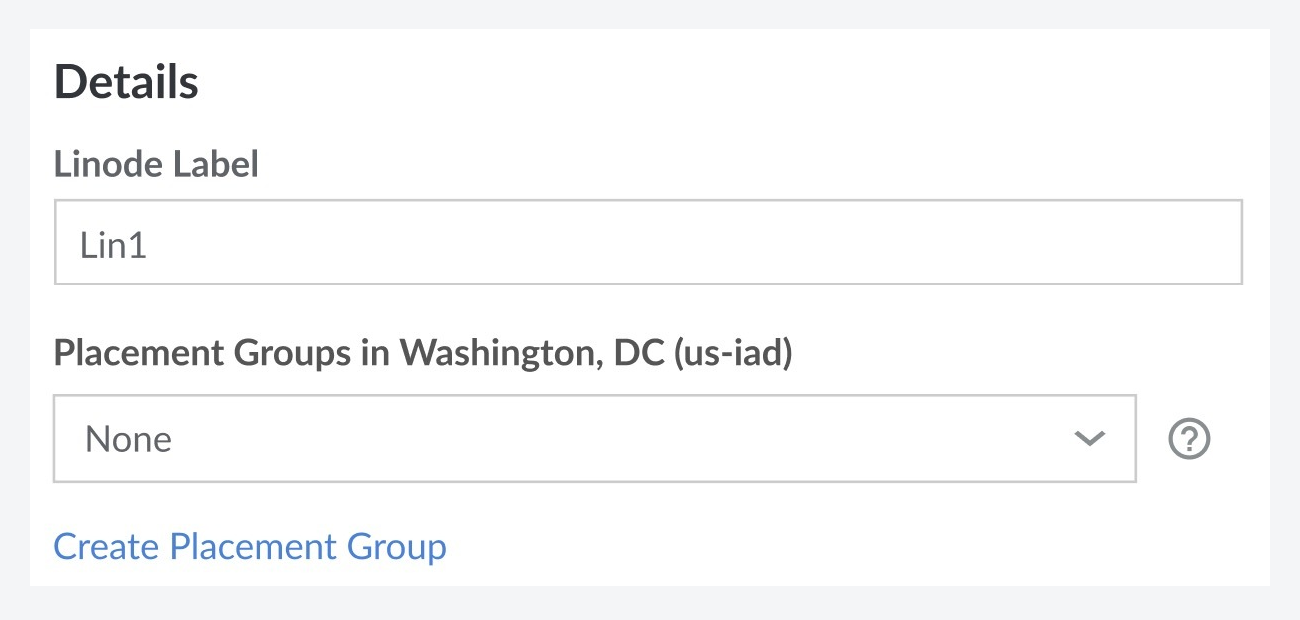
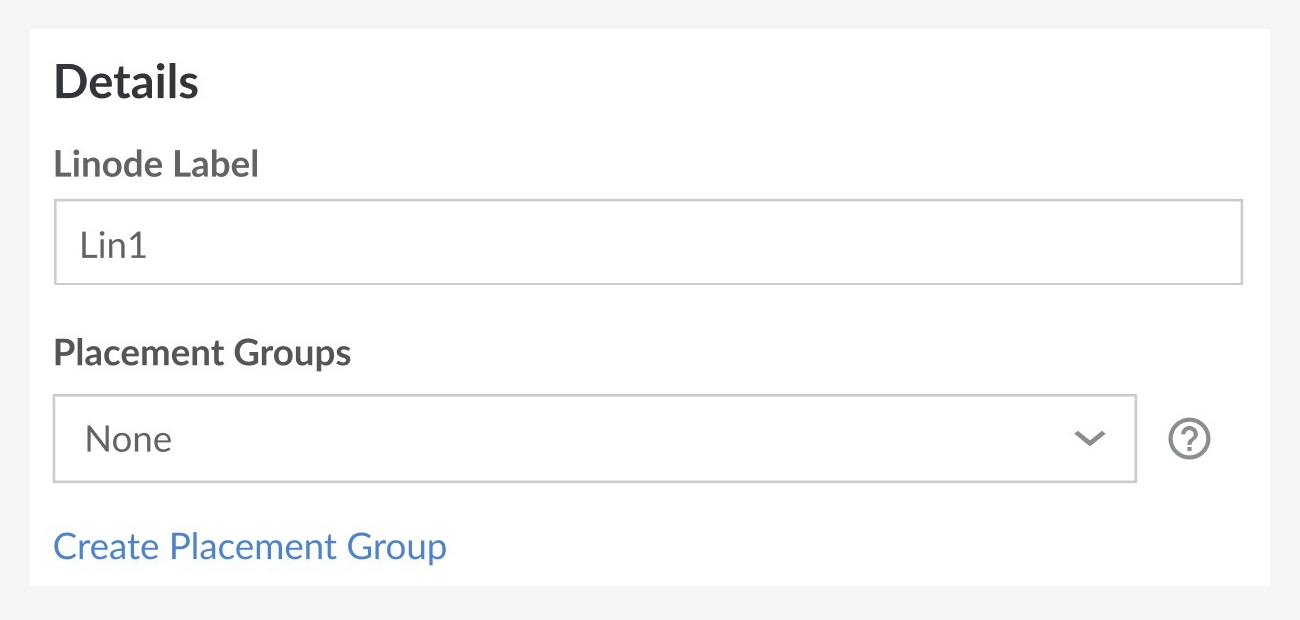
Final fixes for review

Changed region(s): [[0.2769, 0.5516, 0.6154, 0.6129]]

diff --git a/docs/release-notes/api/v4.177.0.md b/docs/release-notes/api/v4.177.0.md
@@ -1,0 +1,55 @@
+---
+title: API v4.177.0
+date: 2024-06-18
+version: 4.177.0
+---
+
+### Added
+
+Several new operations in support of the [Placement Groups](/docs/products/compute/compute-instances/guides/placement-groups/) service launch (Limited Availability):
+
+  - **List placement groups** ([GET /placement/groups)](https://techdocs.akamai.com/linode-api/reference/get-placement-groups))
+  - **Get a placement group** ([GET /placement/groups/{id}](https://techdocs.akamai.com/linode-api/reference/get-placement-group))
+  - **Create a placement group** ([POST /placement/groups/](https://techdocs.akamai.com/linode-api/reference/post-placement-group))
+  - **Update a placement group** ([PUT /placement/groups/](https://techdocs.akamai.com/linode-api/reference/put-placement-group))
+  - **Assign a placement group** ([POST /placement/groups/{id}/assign](https://techdocs.akamai.com/linode-api/reference/post-group-assign))
+  - **Unassign a placement group** ([POST /placement/groups/{id}/unassign](https://techdocs.akamai.com/linode-api/reference/post-group-unassign))
+  - **Delete a placement group** ([DELETE /placement/groups/{id}](https://techdocs.akamai.com/linode-api/reference/delete-placement-group))
+
+### Changed
+
+- Updated operations in support of the Placement Groups service launch (Limited Availability):
+
+  - **List Linodes** ([GET /linode/instances](https://techdocs.akamai.com/linode-api/reference/get-linode-instances)) - Added `placement_group` object to show the placement group the Linode belongs to.
+  - **Get a Linode** ([GET /linode/instances/{linodeId}](https://techdocs.akamai.com/linode-api/reference/get-linode-instance)) - Added `placement_group` object to show the placement group the Linode belongs to.
+  - **Create a Linode** ([POST /linode/instances](https://techdocs.akamai.com/linode-api/reference/post-linode-instance)) - Added `placement_group` parameter to include a new Linode in an existing placement group.
+  - **Clone a Linode** ([POST /linode/instances/{linodeId}/clone](https://techdocs.akamai.com/linode-api/reference/post-clone-linode-instance)) - Added `placement_group` parameter to include the cloned Linode in an existing placement group.
+  - **Initiate a DC Migration/Pending Host Migration** ([POST /linode/instances/migrate](https://techdocs.akamai.com/linode-api/reference/post-migrate-linode-instance)) - Added `placement_group` parameter to include the migrated Linode in an existing placement group.
+  - **Get your account** ([GET /account](https://techdocs.akamai.com/linode-api/reference/get-account)) - Includes `Placement Group` in the `capabilities` array for accounts with access to the service.
+  - **Get a region** ([GET /regions/{regionId}](https://techdocs.akamai.com/linode-api/reference/get-region)) - Included various parameters that describe placement group availability and limitations in a region.
+
+- Updated several Object Storage operations to support the new `regions` objects:
+
+  - **Create an Object Storage bucket** ([POST /object-storage/buckets](https://techdocs.akamai.com/linode-api/reference/post-object-storage-bucket))
+  - **List Object Storage buckets** ([GET /object-storage/buckets](https://techdocs.akamai.com/linode-api/reference/get-object-storage-buckets))
+  - **List Object Storage buckets in a region** ([GET /object-storage/buckets/{regionId}](https://techdocs.akamai.com/linode-api/reference/get-object-storage-bucketin-cluster) -- Replaces the "List Object Storage buckets in a cluster" operation.)
+  - **Get an Object Storage bucket** ([GET /object-storage/buckets/{regionId}/{bucket}](https://techdocs.akamai.com/linode-api/reference/get-object-storage-bucket))
+  - **Remove an Object Storage bucket** ([DELETE /object-storage/buckets/{regionId}/{bucket}](https://techdocs.akamai.com/linode-api/reference/delete-object-storage-bucket))
+  - **Create a URL for an object** ([POST /object-storage/buckets/{regionId}/{bucket}/object-url](https://techdocs.akamai.com/linode-api/reference/post-object-storage-object-url))
+  - **Modify access to an Object Storage bucket** ([POST /object-storage/buckets/{regionId}/{bucket}/access](https://techdocs.akamai.com/linode-api/reference/post-object-storage-bucket-access))
+  - **Update access to an Object Storage bucket** ([PUT /object-storage/buckets/{regionId}/{bucket}/access](https://techdocs.akamai.com/linode-api/reference/put-storage-bucket-access))
+  - **Get an Object Storage object ACL config** ([GET /object-storage/buckets/{regionId}/{bucket}/object-acl](https://techdocs.akamai.com/linode-api/reference/get-object-storage-bucket-acl))
+  - **Update an object's ACL config** ([PUT /object-storage/buckets/{regionId}/{bucket}/object-acl](https://techdocs.akamai.com/linode-api/reference/put-object-storage-bucket-acl))
+  - **List Object Storage bucket contents** ([GET /object-storage/buckets/{regionId}/{bucket}/object-list](https://techdocs.akamai.com/linode-api/reference/get-object-storage-bucket-content))
+  - **Upload an Object Storage TLS/SSL certificate** ([POST /object-storage/buckets/{regionId}/{bucket}/ssl](https://techdocs.akamai.com/linode-api/reference/post-object-storage-ssl))
+  - **Get an Object Storage TLS/SSL certificate** ([GET /object-storage/buckets/{regionId}/{bucket}/ssl](https://techdocs.akamai.com/linode-api/reference/get-object-storage-ssl))
+  - **Delete an Object Storage TLS/SSL certificate** ([DELETE /object-storage/buckets/{regionId}/{bucket}/ssl](https://techdocs.akamai.com/linode-api/reference/delete-object-storage-ssl))
+  - **Create an Object Storage key** ([POST /object-storage/keys](https://techdocs.akamai.com/linode-api/reference/post-object-storage-keys))
+  - **List Object Storage keys** ([GET /object-storage/keys](https://techdocs.akamai.com/linode-api/reference/get-object-storage-keys))
+  - **Get an Object Storage key** ([GET /object-storage/keys/{keyId}](https://techdocs.akamai.com/linode-api/reference/get-object-storage-key))
+  - **Update an Object Storage key** ([PUT /object-storage/keys/{keyId}](https://techdocs.akamai.com/linode-api/reference/put-object-storage-key))
+
+- Deprecated the following Object Storage-related operations. They are still available, but other operations should be used instead:
+
+  - **List clusters** ([GET /object-storage/clusters](https://techdocs.akamai.com/linode-api/reference/get-object-storage-clusters))
+  - **Get a cluster** ([GET /object-storage/clusters/{clusterId}](https://techdocs.akamai.com/linode-api/reference/get-object-storage-cluster))

diff --git a/docs/products/compute/compute-instances/guides/placement-groups/index.md b/docs/products/compute/compute-instances/guides/placement-groups/index.md
@@ -19,7 +19,7 @@ The Placement Groups service gives you a convenient way to set up groups of your
 
 <!--
 
-**CV: 03/2024** Availability at limited availability is only on two data centers - Washington D.C., and Miami. We'll be progressively opening up more regions as they're qualified. The request is to hide availability information in the docs, prior to actual GA.
+**CV: 06/2024** Availability at limited availability is only on two data centers - Chicago, and Miami. We'll be progressively opening up more regions as they're qualified. The request is to hide availability information in the docs, prior to actual GA.
 
 - UI: There's a mouse-over tooltip that reveals the available regions when creating a placement group. It'll be dynamically updated as new regions are made available.
 - API: The `GET /v4/regions:id` operation in the API spec lists `Placement Group` in the `capabilities` array, if PGs are supported for that region. This is the only op I see that shows support/non-support. The issue here is, you need to know the `id` for the target region, in order to run this operation. How would this work in an automated API workflow? Would you set up automation to periodically ping all regions, until it sees that `Placement Groups` is listed for a specific region? (In which case, the workflow could be manipulated to include the new region.)
@@ -32,7 +32,7 @@ The Placement Groups service is available in select regions. Currently, this inc
 
 - Miami, FL (us-mia)
 
-- Washington, DC (us-iad)
+- Chicago, IL (us-ord)
 
 {{< note >}}
 Placement Groups is in limited availability. Throughout this phase, we expect to increase the number of supported regions.
@@ -193,7 +193,7 @@ With all your compute instances added, we begin provisioning by moving them into
 
 #### More with the Placement Groups API
 
-There are several other operations in the [Linode API](/docs/api/placement-groups/) that let you interact with placement groups.
+There are several other operations in the [Linode API](https://techdocs.akamai.com/linode-api/reference/post-placement-group) that let you interact with placement groups.
 
 {{< /tab >}}
 {{< /tabs >}}
